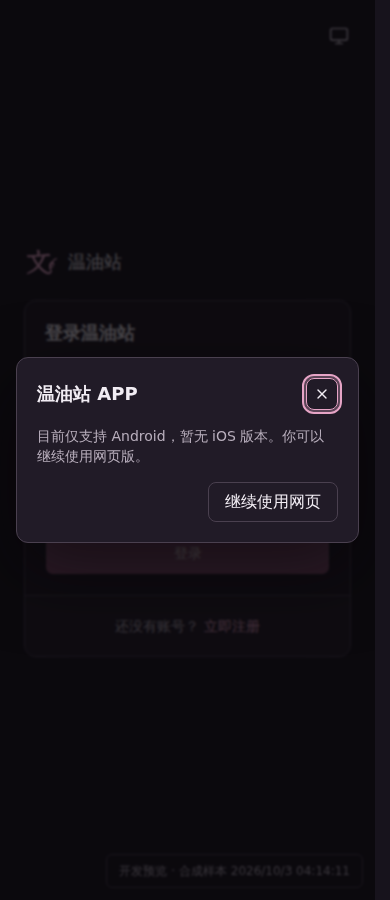
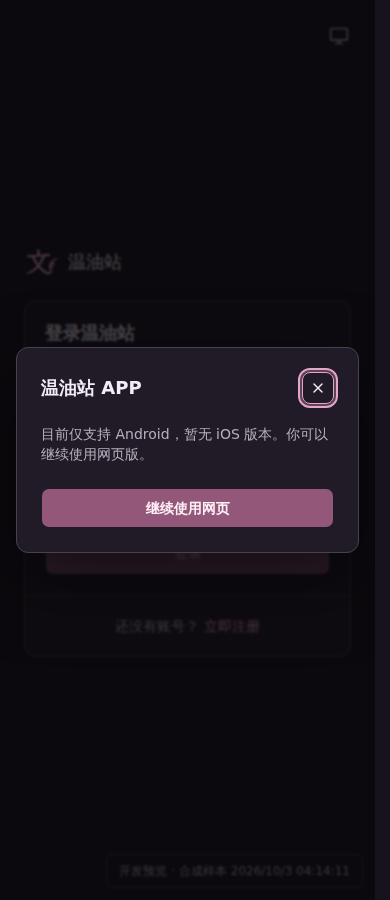
fix(download): 统一弹窗操作并精简外观菜单

Changed region(s): [[0.0308, 0.3733, 0.9231, 0.6222]]

diff --git a/src/components/download/app-download-entry.tsx b/src/components/download/app-download-entry.tsx
@@ -4,6 +4,7 @@ import { useId } from "react";
 import { AppDownloadError } from "@/lib/app-download";
 import { Button } from "@/components/ui/button";
 import { WenyouIcon } from "@/components/ui/wenyou-icon";
+import { cn } from "@/lib/utils";
 import { useAppDownloadContext } from "./app-download-context";
 
 const unavailableMessages = {
@@ -13,9 +14,14 @@ const unavailableMessages = {
   unavailable: "安装包暂不可用，请稍后再试。",
 };
 
-export function AppDownloadEntry({ onAction }: { onAction?: () => void }) {
+export function AppDownloadEntry({ variant = "menu", onAction }: {
+  variant?: "menu" | "dialog";
+  onAction?: () => void;
+}) {
   const { query, phase, attempted, pending, waiting, fileError, handedOff, download, retry } = useAppDownloadContext();
   const statusId = useId();
+  const isDialog = variant === "dialog";
+  const retryInDialog = isDialog && attempted;
   const error = fileError || query.error;
   const info = query.data?.info;
   let message: string | undefined;
@@ -27,17 +33,26 @@ export function AppDownloadEntry({ onAction }: { onAction?: () => void }) {
     else if (handedOff) message = "已交给浏览器下载，请在下载列表查看。若未开始，可重试下载。";
     if (waiting) message = `${message ?? "暂时无法下载。"}等待结束后可重试。`;
   }
-  // 全局表单控件重置使用 font: inherit；在局部容器设定与外观选项相同的文字层级。
-  return <div data-slot="app-download-entry" className="border-t border-border pt-1 text-sm font-normal">
-    <Button type="button" variant="ghost" onClick={() => { onAction?.(); void download(); }} pending={pending}
+  // 全局控件使用 font: inherit；菜单和对话框分别从局部容器继承文字层级。
+  return <div data-slot="app-download-entry" className={cn("text-sm", isDialog ? "font-bold" : "mt-2 border-t border-border pt-1 font-normal")}>
+    <Button type="button" variant={isDialog ? "default" : "ghost"}
+      onClick={(event) => {
+        // 原位切换为重试后，双击的后续 click 不代表再次传输的意图。
+        if (isDialog && event.detail > 1) return;
+        onAction?.();
+        void (retryInDialog ? retry() : download());
+      }}
+      onKeyDown={(event) => {
+        if (isDialog && event.repeat && (event.key === "Enter" || event.key === " ")) event.preventDefault();
+      }} pending={pending}
       pendingLabel={phase === "preflight" ? "正在确认下载…" : "正在获取版本…"}
-      disabled={waiting || attempted} aria-describedby={message ? statusId : undefined}
-      className="w-full justify-start gap-3 px-2.5 font-normal text-muted-foreground">
-      <WenyouIcon id="action.download" className="size-4.5" />下载 APP
+      disabled={waiting || (!isDialog && attempted)} aria-describedby={message ? statusId : undefined}
+      className={cn("w-full", !isDialog && "justify-start gap-3 px-2.5 font-normal text-muted-foreground")}>
+      <WenyouIcon id="action.download" className="size-4.5" />{retryInDialog ? "重试下载" : "下载 APP"}
     </Button>
-    {message && <div className="space-y-1 px-2.5 pb-1 pt-2 text-xs font-normal">
+    {message && <div className={cn("space-y-1 text-xs font-normal", isDialog ? "pt-3" : "px-2.5 pb-1 pt-2")}>
       <p id={statusId} role="status" aria-live="polite" className="text-xs leading-relaxed text-muted-foreground">{message}</p>
-      <Button type="button" variant="link" size="compact" onClick={() => { onAction?.(); void retry(); }} disabled={pending || waiting} className="h-auto min-h-8 px-0 text-xs">重试下载</Button>
+      {!isDialog && <Button type="button" variant="link" size="compact" onClick={() => { onAction?.(); void retry(); }} disabled={pending || waiting} className="h-auto min-h-8 px-0 text-xs">重试下载</Button>}
     </div>}
   </div>;
 }

diff --git a/src/components/layout/__tests__/theme-menu.test.tsx b/src/components/layout/__tests__/theme-menu.test.tsx
@@ -5,11 +5,10 @@ import { afterEach, beforeEach, describe, expect, test, vi } from "vitest";
 import { AppDownloadProvider } from "@/components/download/app-download-provider";
 import { ThemeMenu } from "@/components/layout/theme-menu";
 import { ThemeProvider } from "@/components/ui/theme-provider";
-import { setCoverDataSaver } from "@/hooks/cover-playback";
 import { THEME_STORAGE_KEY } from "@/lib/theme";
 
 beforeEach(() => {
-  localStorage.clear(); setCoverDataSaver(false);
+  localStorage.clear();
   document.documentElement.removeAttribute("data-theme");
   document.documentElement.removeAttribute("data-theme-preference");
   vi.stubGlobal("matchMedia", vi.fn(() => ({
@@ -27,39 +26,15 @@ afterEach(() => {
 });
 
 describe("ThemeMenu", () => {
-  test("访客下载按钮独立位于省流量下方，不再导航到独立页面", async () => {
+  test("外观菜单只保留主题切换和访客下载入口", async () => {
     render(<ThemeProvider><AppDownloadProvider><ThemeMenu /></AppDownloadProvider></ThemeProvider>);
     await userEvent.click(screen.getByRole("button", { name: "外观：跟随系统" }));
-    const toggle = screen.getByRole("checkbox", { name: /省流量/ });
     const button = screen.getByRole("button", { name: "下载 APP" });
     expect(button.querySelector("svg")).toHaveAttribute("data-icon-semantic", "action.download");
-    expect(toggle.compareDocumentPosition(button) & Node.DOCUMENT_POSITION_FOLLOWING).toBeTruthy();
+    expect(screen.getByRole("group", { name: "选择页面外观" }).compareDocumentPosition(button) & Node.DOCUMENT_POSITION_FOLLOWING).toBeTruthy();
+    expect(screen.queryByRole("checkbox")).toBeNull();
+    expect(screen.queryByText("省流量")).toBeNull();
     expect(screen.queryByRole("link", { name: "下载 APP" })).toBeNull();
-  });
-
-  test("localStorage配额写失败但读取仍可用时，临时省流量开关双向同步", async () => {
-    const existingStorage = localStorage;
-    vi.stubGlobal("localStorage", { getItem: existingStorage.getItem.bind(existingStorage),
-      setItem: () => { throw new Error("quota"); } });
-    render(<ThemeProvider><AppDownloadProvider><ThemeMenu /></AppDownloadProvider></ThemeProvider>);
-    await userEvent.click(screen.getByRole("button", { name: "外观：跟随系统" }));
-    const toggle = screen.getByRole("checkbox", { name: /省流量/ });
-    expect(toggle).not.toBeChecked();
-    await userEvent.click(toggle); expect(toggle).toBeChecked();
-    await userEvent.click(toggle); expect(toggle).not.toBeChecked();
-  });
-
-  test("访客可发现省流量入口，切换立即持久化并在重载菜单时恢复", async () => {
-    const view = render(<ThemeProvider><AppDownloadProvider><ThemeMenu /></AppDownloadProvider></ThemeProvider>);
-    await userEvent.click(screen.getByRole("button", { name: "外观：跟随系统" }));
-    const toggle = screen.getByRole("checkbox", { name: /省流量/ });
-    expect(toggle).not.toBeChecked();
-    await userEvent.click(toggle);
-    expect(localStorage.getItem("wenyou:cover-data-saver")).toBe("true");
-    view.unmount();
-    render(<ThemeProvider><AppDownloadProvider><ThemeMenu /></AppDownloadProvider></ThemeProvider>);
-    await userEvent.click(screen.getByRole("button", { name: "外观：跟随系统" }));
-    expect(screen.getByRole("checkbox", { name: /省流量/ })).toBeChecked();
   });
 
   test("展示三种中央偏好并即时切换黑夜", async () => {

diff --git a/src/components/download/app-download-entry.test.tsx b/src/components/download/app-download-entry.test.tsx
@@ -1,4 +1,4 @@
-import { act, cleanup, render, screen, waitFor, within } from "@testing-library/react";
+import { act, cleanup, fireEvent, render, screen, waitFor, within } from "@testing-library/react";
 import userEvent from "@testing-library/user-event";
 import { afterEach, beforeEach, describe, expect, test, vi } from "vitest";
 import { http, HttpResponse } from "msw";
@@ -142,7 +142,30 @@ describe("移动设备首次访问提示", () => {
     render(<Scene />); const dialog = await screen.findByRole("dialog");
     await userEvent.click(within(dialog).getByRole("button", { name: "下载 APP" }));
     expect(await within(dialog).findByText("暂时无法下载，请重试。")).toBeVisible(); expect(get).not.toHaveBeenCalled();
+    expect(within(dialog).queryByRole("button", { name: "下载 APP" })).toBeNull();
+    expect(within(dialog).getAllByRole("button", { name: "重试下载" })).toHaveLength(1);
     await userEvent.click(within(dialog).getByRole("button", { name: "重试下载" }));
     await loadedFrame(); expect(get).toHaveBeenCalledTimes(1);
+  });
+
+  test("弹窗原位重试遵守等待时间；交接后的双击与长按不重复下载", async () => {
+    mobile("android"); const { info, get } = handlers();
+    const head = vi.fn().mockImplementationOnce(() => new HttpResponse(null, { status: 429, headers: { "Retry-After": "1" } }))
+      .mockImplementation(() => new HttpResponse(null, { headers: downloadHeaders() }));
+    server.use(http.head("*/api/v1/app-downloads/android/:build/file", head));
+    render(<Scene />); const dialog = await screen.findByRole("dialog");
+    await userEvent.click(within(dialog).getByRole("button", { name: "下载 APP" }));
+    const retry = await within(dialog).findByRole("button", { name: "重试下载" });
+    expect(retry).toBeDisabled();
+    await waitFor(() => expect(retry).toBeEnabled(), { timeout: 2000 });
+    expect(info).toHaveBeenCalledTimes(1); expect(get).not.toHaveBeenCalled();
+    await userEvent.click(retry); await loadedFrame();
+    expect(info).toHaveBeenCalledTimes(2); expect(get).toHaveBeenCalledTimes(1);
+    fireEvent.click(retry, { detail: 2 });
+    expect(fireEvent.keyDown(retry, { key: "Enter", repeat: true })).toBe(false);
+    expect(retry).toBeEnabled();
+    expect(info).toHaveBeenCalledTimes(2); expect(get).toHaveBeenCalledTimes(1);
+    await userEvent.click(retry); await loadedFrame(2);
+    expect(info).toHaveBeenCalledTimes(3); expect(get).toHaveBeenCalledTimes(2);
   });
 });

diff --git a/src/components/download/mobile-download-prompt.tsx b/src/components/download/mobile-download-prompt.tsx
@@ -38,7 +38,7 @@ function ClientMobileDownloadPrompt() {
 
   return <Dialog open={open} onOpenChange={changeOpen}>
     <DialogPortal><DialogBackdrop /><DialogViewport>
-      <DialogPopup className="max-w-sm space-y-4 p-5">
+      <DialogPopup className="max-w-sm space-y-5 p-6">
         <div className="flex items-center justify-between gap-4">
           <DialogTitle>温油站 APP</DialogTitle>
           <DialogCloseButton label="关闭下载提示" />
@@ -47,8 +47,10 @@ function ClientMobileDownloadPrompt() {
           ? "目前仅支持 Android。可下载安装包，也可以继续使用网页版。"
           : device === "ios" ? "目前仅支持 Android，暂无 iOS 版本。你可以继续使用网页版。"
           : "目前仅支持 Android。你可以继续使用网页版。"}</DialogDescription>
-        {device === "android" && <AppDownloadEntry onAction={remember} />}
-        <DialogFooter><Button type="button" variant="outline" onClick={() => changeOpen(false)}>继续使用网页</Button></DialogFooter>
+        <DialogFooter className="flex-col items-stretch gap-3 pt-1 text-sm font-bold">
+          {device === "android" && <AppDownloadEntry variant="dialog" onAction={remember} />}
+          <Button type="button" variant={device === "android" ? "outline" : "default"} className="w-full" onClick={() => changeOpen(false)}>继续使用网页</Button>
+        </DialogFooter>
       </DialogPopup>
     </DialogViewport></DialogPortal>
   </Dialog>;

diff --git a/src/components/layout/theme-menu.tsx b/src/components/layout/theme-menu.tsx
@@ -17,8 +17,6 @@ import {
 import { useTheme } from "@/components/ui/theme-provider";
 import { cn } from "@/lib/utils";
 
-import { useCoverDataSaver } from "@/hooks/use-cover-playback";
-
 const themeIcons = THEME_ICONS as Record<ThemePreference, WenyouIconId>;
 
 interface ThemeMenuProps {
@@ -32,7 +30,6 @@ export function ThemeMenu({
   side = "right",
   align = "end",
 }: ThemeMenuProps) {
-  const { enabled: dataSaver, setEnabled: setDataSaver } = useCoverDataSaver();
   const [open, setOpen] = useState(false);
   const radioName = useId();
   const { preference, setPreference } = useTheme();
@@ -100,10 +97,6 @@ export function ThemeMenu({
                 );
               })}
             </fieldset>
-            <label className="mt-2 flex cursor-pointer items-start gap-2 border-t border-border px-2.5 py-3 text-sm">
-              <input type="checkbox" checked={dataSaver} onChange={(event) => setDataSaver(event.target.checked)} className="mt-1 accent-primary" />
-              <span>省流量<span className="mt-1 block text-xs text-muted-foreground">列表封面仅显示静态图</span></span>
-            </label>
             <AppDownloadEntry />
           </Popover.Popup>
         </Popover.Positioner>

diff --git a/docs/app-download-validation.md b/docs/app-download-validation.md
@@ -1,15 +1,15 @@
 # APP 下载视觉候选记录
 
-本记录对应直接下载入口与移动设备提示，尚待负责人视觉验收。已取消的独立页面和二维码不属于本次候选。使用 Backend build 4242 合成样本，不是真实生产快照、正式发布包或 Android 安装验证。
+本记录对应直接下载入口、移动设备提示及本轮弹窗操作整理，尚待负责人视觉验收。外观菜单仅提供主题与下载；Android 弹窗使用主次按钮，iOS 只保留继续使用网页。使用 Backend build 4242 合成样本，不是真实生产快照、正式发布包或 Android 安装验证。
 
 ## 绑定信息
 
 - Backend HTTP 契约：`1857d60fe3af309149eb5c1846be221d3a45fb86`；预览运行入口 `36b1375e1f95c72f96b87319fded413ba17a5328`；最新说明 `13168e6a9e23d537be8118207779593c7c073639` 不改契约。
-- Foundation 共享场景：`6458c063aa993a17d54ba623de9a850a96839c12`（29 项）；运行时包仍为 `v7.2.1`。
[1 lines of base64/hex data omitted]
-- 会话 `app-downloads-20261003`；runId `preview_212bae45e833f3c61371497f`；Web/Backend/media 44310/34585/39011。保留原 Backend、数据、预算和 SSH 桥；删除路由后由标准入口重启本任务 Web，清除旧编译图。
-- 截图时间（北京时间）：`2026-10-03T15:58:30.731000+08:00` 起；桌面视口 1280×900、390×900，Android/iOS 使用 Chromium 的移动 UA 与触控模拟，视口 390×900。
-- 快照标记为合成样本，采样时间北京时间 2026-10-03 04:14:11。访问前核验实际 Web 代理身份，API 只访问本轮同源代理。
+- Foundation 共享场景：`4338de0e050949969b23a66f2cbf41d167553776`（29 项）；运行时仍为 `v7.2.1`。
[1 lines of base64/hex data omitted]
+- 会话 `app-downloads-20261003`；runId `preview_212bae45e833f3c61371497f`；Web/Backend/media 44310/34585/39011。保留 Backend、数据、预算及 SSH 桥；本轮仅 Fast Refresh，没有重启或构建。此前旧路由缓存已移到私有诊断目录保留。
+- 截图时间（北京时间）：`2026-10-03T16:33:00.438000+08:00` 起；菜单视口 1280×900、390×900；Android/iOS 为 Chromium 的移动 UA 与触控模拟，390×900。
+- 合成样本采样时间为北京时间 2026-10-03 04:14:11。访问前核验实际 Web 代理身份，API 只访问本轮同源代理。
 
 ## 实际画面
 
@@ -18,36 +18,36 @@
 | 桌面外观菜单 | [1280px](assets/app-download/menu-light-1280.png) | [1280px](assets/app-download/menu-dark-1280.png) |
 | 窄桌面外观菜单 | [390px](assets/app-download/menu-light-390.png) | [390px](assets/app-download/menu-dark-390.png) |
 | Android 提示 | [390px](assets/app-download/android-light-390.png) | [390px](assets/app-download/android-dark-390.png) |
+| Android 预检失败与原位重试 | [390px](assets/app-download/android-error-light-390.png) | [390px](assets/app-download/android-error-dark-390.png) |
 | iOS 提示 | [390px](assets/app-download/ios-light-390.png) | [390px](assets/app-download/ios-dark-390.png) |
 
-## 隔离浏览器观察
+## 本轮浏览器观察
 
-- 八组画面均无横向溢出；相关菜单／对话框 WCAG A/AA 自动扫描无违规。标题、关闭按钮和焦点实际可见；这不替代负责人观感验收。
-- 主题项、省流量和下载按钮的实际 computed style 为 14px / 20px、400 字重；辅助说明 12px。下载文字原先被全局 `font: inherit` 继承为正文 16px，修复限定在入口容器，没有改全站控件重置。
-- 桌面包括 390px 窄窗口不自动提示。Android 显示下载与继续使用网页；iOS 明确仅支持 Android、暂无 iOS 版本，提示内无 APK 按钮。关闭后经 SPA 跳转和整页刷新均不重复提示。提示、菜单打开、悬停和聚焦期间下载信息与文件请求为零。
[1 lines of base64/hex data omitted]
-- 实际附件保持原始长度、正文与 Content-Disposition，同时由探针附加 `X-Frame-Options: DENY` 和 `CSP frame-ancestors 'none'`；Chromium 仍保存正确文件。这是隔离头部兼容验证，不代表公网配置已部署。
-- 所有浏览器上下文的页面脚本异常和越出当前 Web origin 的请求均为零。实时预览继续保留，用于负责人打开 `/login` 反馈。
-- 原生 GET 结果不可靠回传，UI 只显示浏览器交接与手动重试，不宣称文件已完成、签名已验证或已安装。正式制品签名、真机 Safari、已安装 APP、公网云权限、持续预算不在本次模拟浏览器验收范围。
+- Android 两项操作纵向排列，下载使用主按钮，继续网页使用次按钮；实际画面中两者等宽、等高、同圆角，文字一致继承操作区层级。iOS 使用唯一通栏继续按钮。菜单没有省流量控件或辅助说明，底层封面能力和已保存偏好未修改。
+- 弹窗取消菜单式分割线和 ghost 行；预检失败后，原主按钮显示“重试下载”，状态说明单列，不新增文字式重试控件。菜单保留其原有重试方式。
+- 八组初始画面与两组 Android 失败画面已记录。菜单／对话框 WCAG A/AA 自动检查通过；关闭按钮、焦点和主次操作实际可见，不替代负责人观感验收。
+- 初始提示、菜单打开与悬停均无下载信息或文件请求。Android 两组预检失败验证各只读取信息并 HEAD 一次，浏览器探针将 HEAD 模拟为 503，无文件 GET；iOS 和桌面展示无下载请求。关闭后经 SPA 跳转不重复提示。
+- 页面脚本异常与越出当前 Web origin 的请求均为零。字体、字号、间距和颜色只作画面观察，不加入自动化样式断言。
 
-## 检查与源码对应
+## 当前检查与既有传输证据
 
-- `pnpm check` 全部通过：346 个文件、3810 项测试，覆盖率、依赖审计、预览隔离、lint、类型、契约、架构、设计、文档、发布源检查与 production build 均通过。当前相关 Vitest 为 7 个文件、76 项；Context 拆分后另外复核入口和 Provider 18 项。
-- 新隔离候选 `e2e_6a426ccc5dc6cdbf65d9116c`：下载与移动提示 15 项、主题 2 项、认证回跳 2 项、分隔线 2 项，共 21 项全部通过、无跳过。Backend runner 固定 `13168e6a9e23d537be8118207779593c7c073639`；`resourcesRemoved=true`、`cleanupVerified=true`。此次为受影响范围补验，没有将其称为重新执行完整 E2E。
-- GET 429（JSON／空正文）、503、502 保留原页面及手动重试；重试重新读取信息并 HEAD 后再交接。预检等待结束不自动重试；关闭移动提示／菜单、SPA 导航和再次下载均保留已交接载体。
-- 字体、字号与行高仅记录实际画面和 computed style 观察，按负责人要求不加入自动化样式断言。
-
-截图后仅将 Context 拆成独立文件以消除循环依赖，行为与视觉不变；下表记录最终实现。
+- 本轮入口和 ThemeMenu 组件测试：2 个文件、20 项通过。覆盖原位重试、Retry-After 等待、双击与长按防重复、会话去重、关闭后继续交接及菜单能力；没有新增纯样式断言。
+- 相关 ESLint、类型、架构、设计与文档检查通过。本轮按已授权反馈节奏执行定向验证，没有重复全量测试、生产构建或隔离 E2E 构建。
+- 上一提交 `5e7a9cd571fe8311c3cfa549c98f43e348e2b52f` 的 `pnpm check` 已通过：346 个文件、3810 项测试，含覆盖率、依赖审计、预览隔离、lint、类型、契约、架构、设计、文档、发布源检查与构建。该结果属于上一行为候选，不称本轮重新执行过全量检查。
+- 同提交隔离候选 `e2e_6a426ccc5dc6cdbf65d9116c`：下载与移动提示 15 项、主题 2 项、认证回跳 2 项、分隔线 2 项，共 21 项通过、无跳过。Backend runner 固定 `13168e6a9e23d537be8118207779593c7c073639`；`resourcesRemoved=true`、`cleanupVerified=true`。
[1 lines of base64/hex data omitted]
+- 本轮未改下载控制器、HEAD 校验、原生 iframe、契约或会话存储，只调整入口呈现和原位重试激活。原生 GET 结果仍不可靠回传，UI 不宣称已完成、已校验签名或已安装。真机 Safari、正式 APK、旧 APP、公网权限和持续预算不在本次模拟浏览器范围。
 
 | 实现文件 | SHA-256 |
 | --- | --- |
[9 lines of base64/hex data omitted]
 
-此前完整 E2E 首轮 `e2e_1f067bd3d60ce43068f7234e` 为 216 passed / 2 failed / 13 skipped；两项失败来自已合并 PR #51 的连续楼层与旧分隔线视觉基线不符，`resourcesRemoved=true`、`cleanupVerified=false`。独立提交 `c751acf` 已按接受的设计修正基线并保留原几何和 Token 断言；后续 `e2e_5948533ae5a58d15e324278d` 的分隔线 2 项及旧下载 10 项通过、清理确认成功。以上仅保留分支历史解释，不代表当前入口和移动提示已跑过完整 E2E。
+此前完整 E2E 首轮 `e2e_1f067bd3d60ce43068f7234e` 为 216 passed / 2 failed / 13 skipped；两项失败来自已合并 PR #51 的连续楼层与旧分隔线视觉基线不符，`resourcesRemoved=true`、`cleanupVerified=false`。独立提交 `c751acf` 已按接受的设计修正基线并保留原几何和 Token 断言；后续 `e2e_5948533ae5a58d15e324278d` 及上述 21 项候选均已补验分隔线且清理成功。此段保留分支历史解释，不代表本轮执行过完整 E2E。
 
 实时预览规则见 [开发预览](modules/dev-preview.md)，最终行为见 [APP 下载](modules/app-download.md)。

diff --git a/docs/modules/home.md b/docs/modules/home.md
@@ -141,7 +141,7 @@
 
 首页、标签、搜索、个人主页创建/参与/公开收藏及自有收藏共用可见性调度。所有封面露出面积达到 50% 即加载播放，没有停稳等待、中心优先或并播数量上限；已播放项只要仍有可见面积就持续，完全离屏才卸载，重新达到 50% 时重新创建原生动画实例。滚动与观察器通知按浏览器帧合并重测，不因持续滚动停止仍可见内容。
 
-- 默认所有网络允许播放；“外观”菜单保留设备级省流量偏好，reduced motion、省流量、隐藏 Tab、页面隐藏、模态遮挡时停止全部。恢复后按可见性重新进入，不增加等待。
+- 默认所有网络允许播放；外观菜单不再提供省流量选项，既有设备级省流量偏好继续生效，reduced motion、省流量、隐藏 Tab、页面隐藏、模态遮挡时停止全部。恢复后按可见性重新进入，不增加等待。
 - 初始使用服务端可信 posterUrl 第一帧；首帧成功且 animated=true 才参与播放。未知媒体、缺少元数据、无可信首帧、描述 URL 不匹配或 poster 失败继续保守占位，不猜地址。
 - 使用 IntersectionObserver、ResizeObserver、嵌套滚动及可见区域裁切/遮挡检查。几何重测限于 IO 相交候选、活动项与新注册待测项的并集，初次 IO 回调前新项至少测一次；不支持 IO 时回退全量测量。分页新增和无关布局不重建活动项；URL、实际显示尺寸或 DPR 变化只重置对应项。
 - 每项按实际 CSS 宽高 × DPR 选择列表 WebP，双维满足时取最小档，否则取最大档。变体缺失/null/无效时选完整 `display`；仅历史缺描述沿可信来源路径兼容。预览请求失败恢复静态并提供显式重试，不级联下载原 GIF。

diff --git a/docs/modules/theme.md b/docs/modules/theme.md
@@ -11,7 +11,8 @@
 ## 2. 入口与无障碍
 
 - 社区页和工作区在左侧全局导航底部显示“外观”；认证页与站务壳在右上角保留紧凑入口。
-- 弹层底部、省流量设置下方提供匿名可用的“下载 APP”按钮，一次点击获取版本、预检后交给浏览器保存，弹层附近显示状态与重试入口。主题、省流量和下载操作统一 14px / 20px、400 字重，选中态通过背景和勾选表达。打开、悬停或聚焦菜单不请求下载信息或安装包，详见 [APP 下载](app-download.md)。
+- 弹层底部、主题选项下方提供匿名可用的“下载 APP”按钮，一次点击获取版本、预检后交给浏览器保存，弹层附近显示状态与重试入口。主题和下载操作统一 14px / 20px、400 字重，选中态通过背景和勾选表达。打开、悬停或聚焦菜单不请求下载信息或安装包，详见 [APP 下载](app-download.md)。
+- 外观菜单仅提供主题切换和下载，不再展示省流量选项；底层封面省流量能力与已保存偏好保留。
 - 弹层使用原生单选组语义，三个选项带 Foundation 外观图标、可见选中标记与键盘方向键行为；触发器的可访问名称包含当前偏好。
 - 切换结果同步到原生 `color-scheme`、主题色、Sonner、Milkdown Crepe、普通浮层与图片查看器。焦点环、选中标记和状态同时保留形状或文字线索，不只依赖颜色。
 
